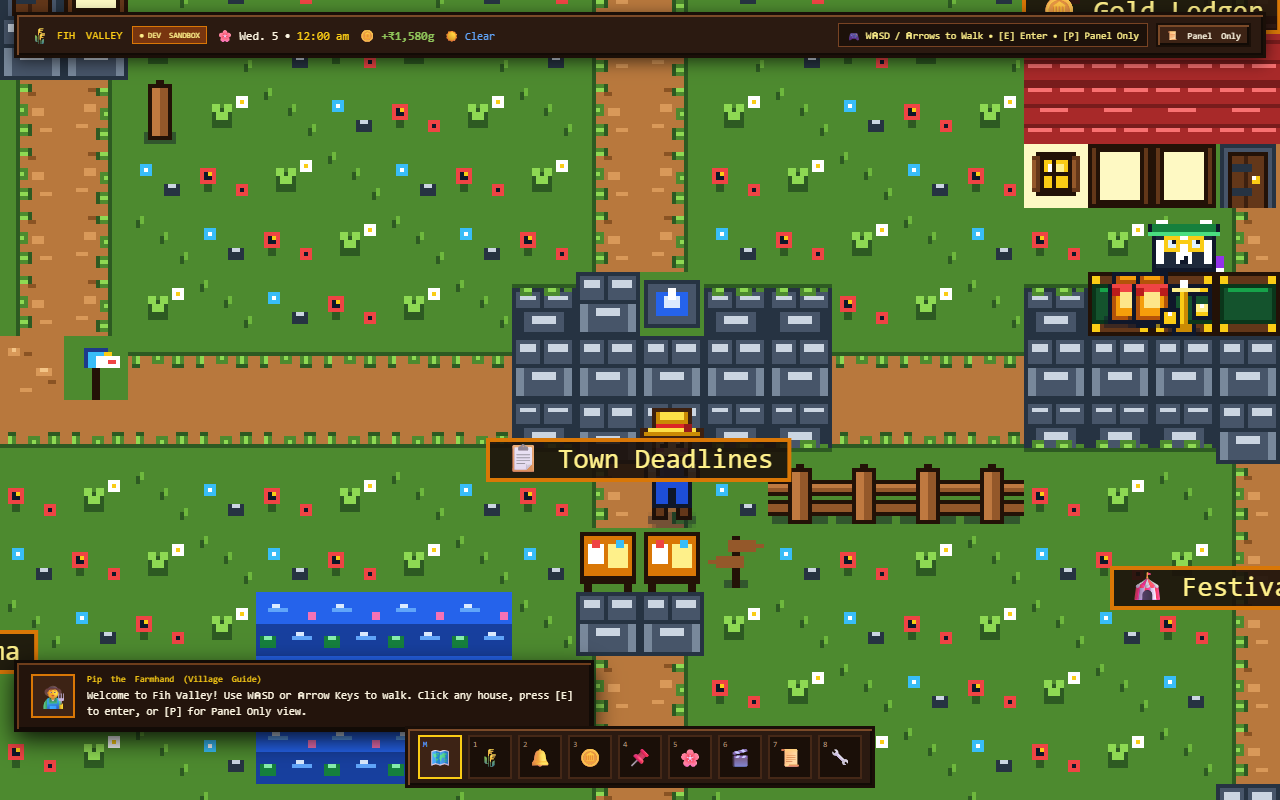
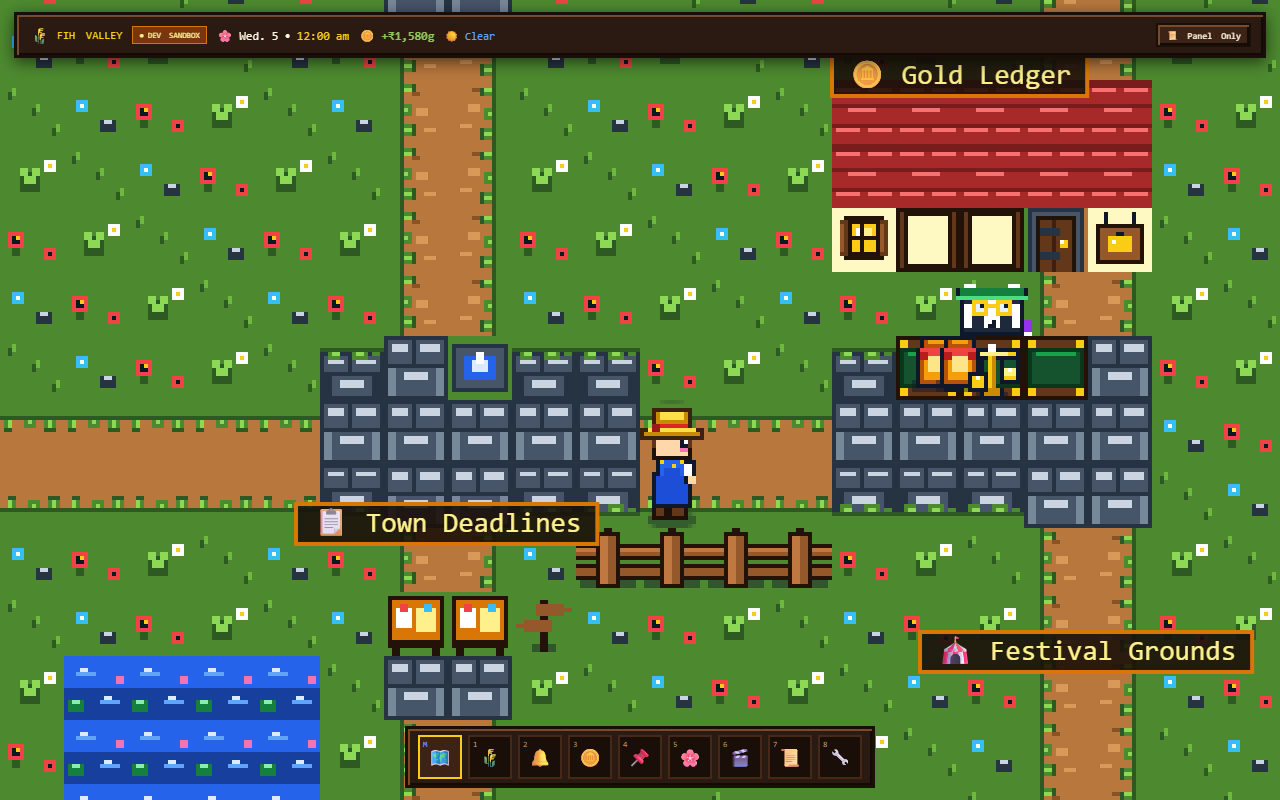
feat(overworld): show Welcome and controls once on login, hide during roaming, show on interaction

diff --git a/pages/index.js b/pages/index.js
@@ -9,7 +9,7 @@ import Watchlist from '@/components/Watchlist';
 import ReminderBoard from '@/components/ReminderBoard';
 import SettingsView from '@/components/SettingsView';
 import AuditLogView from '@/components/AuditLogView';
-import PixelWorldCanvas, { CHAPTER_ANCHORS } from '@/components/world/PixelWorldCanvas';
+import PixelWorldCanvas, { CHAPTER_ANCHORS, shouldShowDialogue, getHudControlsGuide } from '@/components/world/PixelWorldCanvas';
 import RPGHotbar from '@/components/ui/RPGHotbar';
 import RPGDialogueBox from '@/components/ui/RPGDialogueBox';
 import DevModeIndicator from '@/components/ui/DevModeIndicator';
@@ -30,6 +30,8 @@ export default function Dashboard() {
   const [reducedMotion, setReducedMotion] = useState(false);
   const [showCanvas, setShowCanvas] = useState(true); // Accessible toggle
   const [panelMinimized, setPanelMinimized] = useState(false);
+  const [hasInteracted, setHasInteracted] = useState(false); // Welcome & controls shown once until interaction
+  const [nearbyBuilding, setNearbyBuilding] = useState(null); // Tracks proximity to buildings
   const [time, setTime] = useState(new Date());
 
   // Check auth & hydrate user settings
@@ -106,6 +108,7 @@ export default function Dashboard() {
 
   const handleTabChange = useCallback((tabId, options = {}) => {
     soundManager.playSfx('wood');
+    setHasInteracted(true);
     if (options.panelOnly !== undefined) {
       setShowCanvas(!options.panelOnly);
     }
@@ -129,17 +132,28 @@ export default function Dashboard() {
     router.replace({ query: q }, undefined, { shallow: true });
   }, [router]);
 
-  // Global Escape key listener: works reliably in BOTH Split World and Panel Only modes
+  // Global Escape key listener & interaction tracker
   useEffect(() => {
     function handleGlobalKeyDown(e) {
-      if (e.code === 'Escape' || e.key === 'Escape') {
-        const tag = document.activeElement?.tagName?.toLowerCase();
-        if (tag === 'input' || tag === 'textarea' || tag === 'select') {
+      const tag = document.activeElement?.tagName?.toLowerCase();
+      if (tag === 'input' || tag === 'textarea' || tag === 'select') {
+        if (e.code === 'Escape' || e.key === 'Escape') {
           // Blur the active form input first
           document.activeElement.blur();
-          return;
         }
+        return;
+      }
 
+      const interactionCodes = [
+        'KeyW', 'KeyA', 'KeyS', 'KeyD',
+        'ArrowUp', 'ArrowDown', 'ArrowLeft', 'ArrowRight',
+        'KeyE', 'KeyP', 'Space', 'Enter', 'Escape'
+      ];
+      if (interactionCodes.includes(e.code) || interactionCodes.includes(e.key)) {
+        setHasInteracted(true);
+      }
+
+      if (e.code === 'Escape' || e.key === 'Escape') {
         if (activeTab) {
           e.preventDefault();
           handleCloseChapter();
@@ -233,13 +247,27 @@ export default function Dashboard() {
     const chapterDialogue = dialogueContent[activeTab] || dialogueContent.debts;
     currentResidentId = chapterDialogue?.character || 'pip';
     const residentMeta = CHARACTER_META[currentResidentId] || { name: 'Resident', title: 'Villager' };
-    residentFullName = `${residentMeta.name} ${residentMeta.title}`;
+    residentFullName = `${residentMeta.name} ${residentMeta.title || residentMeta.role || ''}`.trim();
     chapterTitle = chapterDialogue.chapterTitle || 'Village Chapter';
     dialogueLine = getContextualDialogue(activeTab, {
       timeOfDay,
       weather: currentWeather,
     });
+  } else if (nearbyBuilding) {
+    const bDialogue = dialogueContent[nearbyBuilding.id] || dialogueContent.todos;
+    currentResidentId = bDialogue?.character || 'pip';
+    const residentMeta = CHARACTER_META[currentResidentId] || { name: 'Resident', title: 'Villager' };
+    residentFullName = `${residentMeta.name} ${residentMeta.title || residentMeta.role || ''}`.trim();
+    chapterTitle = nearbyBuilding.name || nearbyBuilding.label || 'Building';
+    const speech = getContextualDialogue(nearbyBuilding.id, {
+      timeOfDay,
+      weather: currentWeather,
+    });
+    dialogueLine = `${speech} Press [E] to enter or [P] for Panel Only.`;
   }
+
+  const showDialogue = shouldShowDialogue({ activeTab, hasInteracted, nearbyBuilding });
+  const hudControlsGuide = getHudControlsGuide({ activeTab, hasInteracted, nearbyBuilding });
 
   function renderTabContent() {
     switch (activeTab) {
@@ -289,6 +317,8 @@ export default function Dashboard() {
             reducedMotion={reducedMotion}
             onNavigateToChapter={handleTabChange}
             onCloseChapter={handleCloseChapter}
+            onPlayerInteract={() => setHasInteracted(true)}
+            onNearbyBuildingChange={setNearbyBuilding}
             onSelectDebt={() => {
               setPanelMinimized(false);
             }}
@@ -374,8 +404,8 @@ export default function Dashboard() {
           </div>
 
           <div style={{ display: 'flex', alignItems: 'center', gap: 8 }}>
-            {/* Keyboard Guide Pill */}
-            {!activeTab && (
+            {/* Controls Guide Pill: Initial Welcome Controls or Proximity Prompt */}
+            {hudControlsGuide && (
               <div
                 style={{
                   fontSize: 10,
@@ -388,7 +418,7 @@ export default function Dashboard() {
                   gap: 4,
                 }}
               >
-                <span>🎮 WASD / Arrows to Walk • [E] Enter • [P] Panel Only</span>
+                <span>{hudControlsGuide}</span>
               </div>
             )}
 
@@ -509,23 +539,37 @@ export default function Dashboard() {
         )}
 
         {/* ── 4. Bottom RPG Dialogue Box (Section 5) ── */}
-        <div
-          className="rpg-dialogue-wrapper"
-          style={{
-            position: 'fixed',
-            bottom: 68,
-            left: 14,
-            zIndex: 80,
-            maxWidth: 580,
-          }}
-        >
-          <RPGDialogueBox
-            character={currentResidentId}
-            name={residentFullName}
-            chapterName={chapterTitle}
-            text={dialogueLine}
-          />
-        </div>
+        {showDialogue && (
+          <div
+            className="rpg-dialogue-wrapper"
+            onClick={() => {
+              if (!activeTab && !nearbyBuilding) {
+                setHasInteracted(true);
+              }
+            }}
+            style={{
+              position: 'fixed',
+              bottom: 68,
+              left: 14,
+              zIndex: 80,
+              maxWidth: 580,
+              cursor: (!activeTab && !nearbyBuilding) ? 'pointer' : 'default',
+            }}
+            title={(!activeTab && !nearbyBuilding) ? 'Click to dismiss welcome' : undefined}
+          >
+            <RPGDialogueBox
+              character={currentResidentId}
+              name={residentFullName}
+              chapterName={chapterTitle}
+              text={dialogueLine}
+              onNext={() => {
+                if (!activeTab && !nearbyBuilding) {
+                  setHasInteracted(true);
+                }
+              }}
+            />
+          </div>
+        )}
 
         {/* ── 5. Bottom RPG Hotbar Navigation (Section 5) ── */}
         <RPGHotbar

diff --git a/components/world/PixelWorldCanvas.jsx b/components/world/PixelWorldCanvas.jsx
@@ -358,6 +358,40 @@ export function getNearbyBuilding(pipX, pipY, threshold = 40) {
   return closest;
 }
 
+/**
+ * Dialogue visibility logic:
+ * - On initial login/refresh: shows Welcome dialogue box once.
+ * - Once the character starts interacting (moving, clicking, opening chapters):
+ *   dialogue box hides during open-world roaming.
+ * - Dialogue box ONLY shows when actively interacting:
+ *   1) Approaching a building (proximity to resident/door)
+ *   2) Inside a chapter (activeTab is non-null)
+ */
+export function shouldShowDialogue({ activeTab = null, hasInteracted = false, nearbyBuilding = null } = {}) {
+  if (activeTab !== null && activeTab !== undefined) return true;
+  if (!hasInteracted) return true;
+  if (nearbyBuilding !== null && nearbyBuilding !== undefined) return true;
+  return false;
+}
+
+/**
+ * HUD controls guide logic:
+ * - On initial login/refresh: shows full movement & entry controls guide once.
+ * - Once interacting / roaming: hidden to keep top HUD clean.
+ * - When approaching a building: shows proximity prompt [E] Enter • [P] Panel Only.
+ * - Inside a chapter: null (the top bar renders Village Map (Esc) button instead).
+ */
+export function getHudControlsGuide({ activeTab = null, hasInteracted = false, nearbyBuilding = null } = {}) {
+  if (activeTab !== null && activeTab !== undefined) return null;
+  if (!hasInteracted) {
+    return '🎮 WASD / Arrows to Walk • [E] Enter • [P] Panel Only';
+  }
+  if (nearbyBuilding) {
+    return '🚪 [E] Enter • [P] Panel Only';
+  }
+  return null;
+}
+
 export default function PixelWorldCanvas({
   activeTab = null, // null or 'map' = Full Overworld Exploration Mode
   debtsData = [],
@@ -371,6 +405,8 @@ export default function PixelWorldCanvas({
   onSelectDebt,
   onNavigateToChapter,
   onCloseChapter,
+  onPlayerInteract,
+  onNearbyBuildingChange,
   reducedMotion = false,
   className = '',
   style = {},
@@ -378,6 +414,16 @@ export default function PixelWorldCanvas({
   const canvasRef = useRef(null);
   const activeKeysRef = useRef(new Set());
   const [nearbyBuildingState, setNearbyBuildingState] = useState(null);
+
+  const onPlayerInteractRef = useRef(onPlayerInteract);
+  const onNearbyBuildingChangeRef = useRef(onNearbyBuildingChange);
+
+  useEffect(() => {
+    onPlayerInteractRef.current = onPlayerInteract;
+    onNearbyBuildingChangeRef.current = onNearbyBuildingChange;
+  }, [onPlayerInteract, onNearbyBuildingChange]);
+
+  const lastReportedNearbyRef = useRef(undefined);
 
   const stateRef = useRef({
     images: { tileset: null, pip: null, bram: null },
@@ -475,9 +521,15 @@ export default function PixelWorldCanvas({
         if (code.startsWith('Arrow')) {
           e.preventDefault(); // Prevent scrolling page with arrow keys
         }
+        if (onPlayerInteractRef.current) {
+          onPlayerInteractRef.current();
+        }
         activeKeysRef.current.add(code);
         stateRef.current.clickTarget = null; // Keyboard cancels click waypoint
       } else if (code === 'KeyE' || code === 'Space') {
+        if (onPlayerInteractRef.current) {
+          onPlayerInteractRef.current();
+        }
         const nearby = stateRef.current.nearbyBuilding;
         if (nearby && onNavigateToChapter) {
           e.preventDefault();
@@ -485,6 +537,9 @@ export default function PixelWorldCanvas({
           onNavigateToChapter(nearby.id, { panelOnly: false });
         }
       } else if (code === 'KeyP') {
+        if (onPlayerInteractRef.current) {
+          onPlayerInteractRef.current();
+        }
         const nearby = stateRef.current.nearbyBuilding;
         if (nearby && onNavigateToChapter) {
           e.preventDefault();
@@ -536,6 +591,9 @@ export default function PixelWorldCanvas({
   }, []);
 
   const handleCanvasClick = useCallback((e) => {
+    if (onPlayerInteractRef.current) {
+      onPlayerInteractRef.current();
+    }
     const canvas = canvasRef.current;
     if (!canvas) return;
     const rect = canvas.getBoundingClientRect();
@@ -634,6 +692,9 @@ export default function PixelWorldCanvas({
       const { vx, vy } = getKeyboardVelocity(activeKeys);
 
       if (vx !== 0 || vy !== 0) {
+        if (onPlayerInteractRef.current) {
+          onPlayerInteractRef.current();
+        }
         pip.walking = true;
         const speed = 75 * dt;
         const nextX = pip.x + vx * speed;
@@ -713,6 +774,14 @@ export default function PixelWorldCanvas({
       // ── Update Proximity Detection ──
       const nearby = getNearbyBuilding(pip.x + 8, pip.y + 20, 36);
       state.nearbyBuilding = nearby;
+
+      const nearbyId = nearby ? nearby.id : null;
+      if (lastReportedNearbyRef.current !== nearbyId) {
+        lastReportedNearbyRef.current = nearbyId;
+        if (onNearbyBuildingChangeRef.current) {
+          onNearbyBuildingChangeRef.current(nearby);
+        }
+      }
 
       // ── Camera Panning & Follow Mode ──
       const cam = state.camera;

diff --git a/tests/worldEngine.test.js b/tests/worldEngine.test.js
@@ -386,3 +386,89 @@ describe('Village Path & Cobblestone Autotiling Engine (Spec Section 8.4)', () =
     expect(getPathTileInfo(2, 2)).toBeNull();
   });
 });
+
+describe('Overworld Welcome & Interaction Visibility Rules (Spec Section 5)', () => {
+  it('shows Welcome dialogue box on initial login/refresh before interaction', async () => {
+    const { shouldShowDialogue } = await import('../components/world/PixelWorldCanvas');
+
+    // Initial spawn: no tab open, user hasn't interacted, not near any door
+    const show = shouldShowDialogue({
+      activeTab: null,
+      hasInteracted: false,
+      nearbyBuilding: null,
+    });
+    expect(show).toBe(true);
+  });
+
+  it('hides dialogue box once player interacts and is walking in the open world', async () => {
+    const { shouldShowDialogue } = await import('../components/world/PixelWorldCanvas');
+
+    // Player started moving / interacting: hasInteracted is true, roaming open world
+    const show = shouldShowDialogue({
+      activeTab: null,
+      hasInteracted: true,
+      nearbyBuilding: null,
+    });
+    expect(show).toBe(false);
+  });
+
+  it('shows resident dialogue box when approaching any building', async () => {
+    const { shouldShowDialogue } = await import('../components/world/PixelWorldCanvas');
+
+    // Player walks near the Ledger Hut door
+    const show = shouldShowDialogue({
+      activeTab: null,
+      hasInteracted: true,
+      nearbyBuilding: { id: 'debts', name: 'The Ledger Hut' },
+    });
+    expect(show).toBe(true);
+  });
+
+  it('shows chapter dialogue box when inside an active chapter', async () => {
+    const { shouldShowDialogue } = await import('../components/world/PixelWorldCanvas');
+
+    // Player enters the Farmstead chapter (todos)
+    const show = shouldShowDialogue({
+      activeTab: 'todos',
+      hasInteracted: true,
+      nearbyBuilding: null,
+    });
+    expect(show).toBe(true);
+  });
+
+  it('controls HUD guide visibility: shows initial controls once, hides in world, prompts on proximity', async () => {
+    const { getHudControlsGuide } = await import('../components/world/PixelWorldCanvas');
+
+    // 1. Initial login / refresh: full keyboard guide shown
+    const initialGuide = getHudControlsGuide({
+      activeTab: null,
+      hasInteracted: false,
+      nearbyBuilding: null,
+    });
+    expect(initialGuide).toBe('🎮 WASD / Arrows to Walk • [E] Enter • [P] Panel Only');
+
+    // 2. Walking open world: HUD guide is hidden (clean top bar)
+    const roamingGuide = getHudControlsGuide({
+      activeTab: null,
+      hasInteracted: true,
+      nearbyBuilding: null,
+    });
+    expect(roamingGuide).toBeNull();
+
+    // 3. Approaching a building: proximity entry guide shown
+    const proximityGuide = getHudControlsGuide({
+      activeTab: null,
+      hasInteracted: true,
+      nearbyBuilding: { id: 'reminders', name: 'The Bell Tower' },
+    });
+    expect(proximityGuide).toBe('🚪 [E] Enter • [P] Panel Only');
+
+    // 4. Inside a chapter: null (top bar displays Village Map button instead)
+    const chapterGuide = getHudControlsGuide({
+      activeTab: 'reminders',
+      hasInteracted: true,
+      nearbyBuilding: null,
+    });
+    expect(chapterGuide).toBeNull();
+  });
+});
